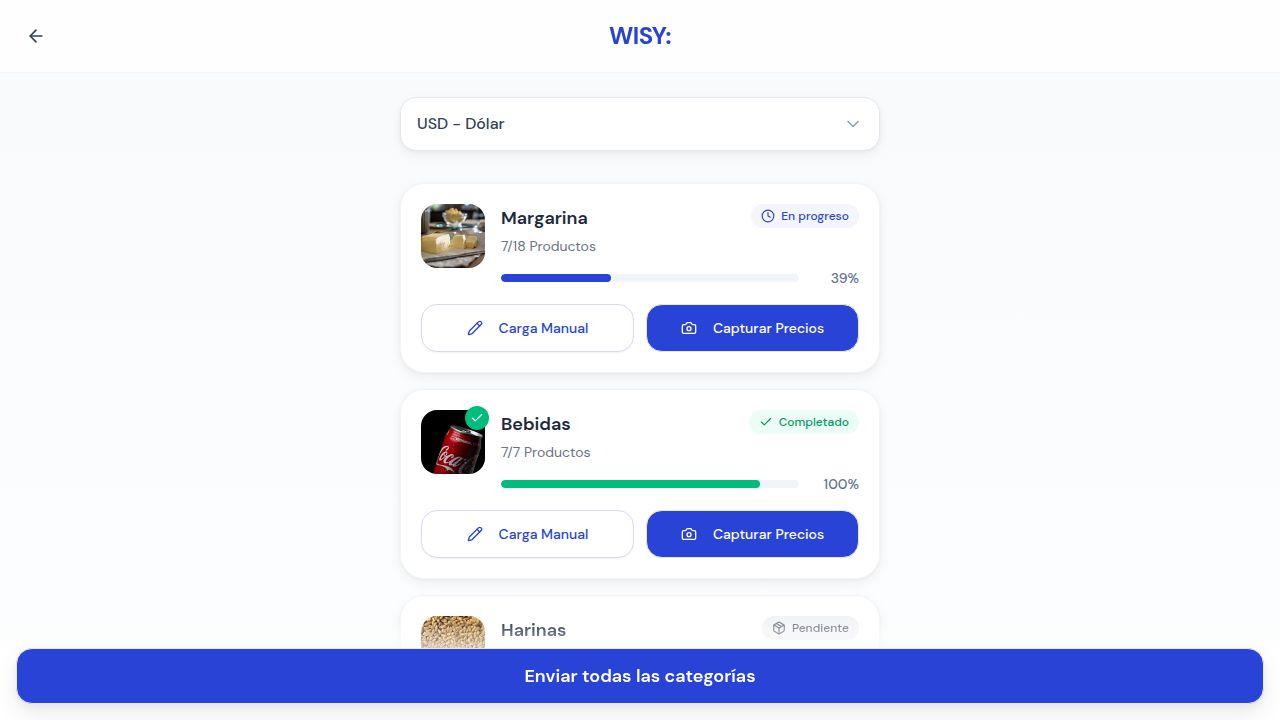
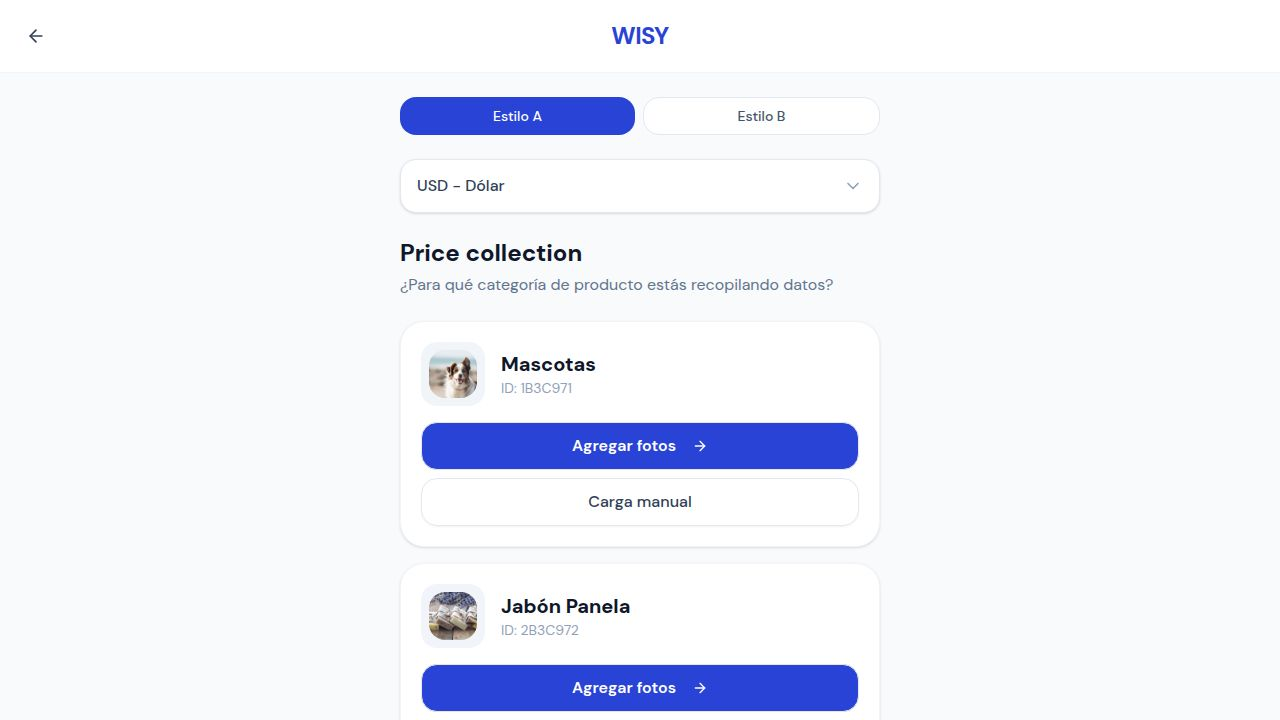
Update categories page to remove status badges and add style options
Removed pending and in-progress status badges from categories. Added two style versions for the home page, with a toggle to switch between card and list views. Updated category IDs and imports.

Replit-Commit-Author: Agent
Replit-Commit-Session-Id: e8e32d1c-b162-4c5d-9f42-174eec901f53
Replit-Commit-Checkpoint-Type: full_checkpoint
Replit-Commit-Event-Id: 7fba9937-7e1d-4efc-a0ea-801f7d893180
Replit-Commit-Screenshot-Url: https://storage.googleapis.com/screenshot-production-us-central1/953767e5-1174-45a6-99b9-bfce9b04edd2/e8e32d1c-b162-4c5d-9f42-174eec901f53/xpiLAi2
Replit-Helium-Checkpoint-Created: true

diff --git a/client/src/pages/categories.tsx b/client/src/pages/categories.tsx
@@ -1,43 +1,30 @@
 import { useState } from "react";
 import { useLocation } from "wouter";
 import { motion, AnimatePresence } from "framer-motion";
-import { ArrowLeft, ChevronDown, Pencil, Camera, Check, Clock, Package } from "lucide-react";
+import { ArrowLeft, ChevronDown, ArrowRight } from "lucide-react";
 import { Button } from "@/components/ui/button";
-import { Progress } from "@/components/ui/progress";
 
 interface Category {
   id: string;
   name: string;
   image: string;
-  completed: number;
-  total: number;
-  status: "completed" | "in-progress" | "pending";
 }
 
 const categories: Category[] = [
   {
-    id: "1",
+    id: "1B3C971",
     name: "Mascotas",
     image: "https://images.unsplash.com/photo-1587300003388-59208cc962cb?w=120&h=120&fit=crop",
-    completed: 7,
-    total: 20,
-    status: "in-progress",
   },
   {
-    id: "2",
+    id: "2B3C972",
     name: "Jabón Panela",
     image: "https://images.unsplash.com/photo-1600857544200-b2f666a9a2ec?w=120&h=120&fit=crop",
-    completed: 0,
-    total: 8,
-    status: "pending",
   },
   {
-    id: "3",
+    id: "3B3C973",
     name: "Cerveza",
     image: "https://images.unsplash.com/photo-1535958636474-b021ee887b13?w=120&h=120&fit=crop",
-    completed: 12,
-    total: 12,
-    status: "completed",
   },
 ];
 
@@ -47,39 +34,11 @@ export default function CategoriesPage() {
   const [, navigate] = useLocation();
   const [selectedCurrency, setSelectedCurrency] = useState(currencies[0]);
   const [currencyOpen, setCurrencyOpen] = useState(false);
-
-  const getStatusConfig = (status: Category["status"]) => {
-    switch (status) {
-      case "completed":
-        return {
-          label: "Completado",
-          color: "text-emerald-600",
-          bgColor: "bg-emerald-50",
-          icon: Check,
-          progressColor: "bg-emerald-500",
-        };
-      case "in-progress":
-        return {
-          label: "En progreso",
-          color: "text-primary",
-          bgColor: "bg-primary/5",
-          icon: Clock,
-          progressColor: "bg-primary",
-        };
-      case "pending":
-        return {
-          label: "Pendiente",
-          color: "text-muted-foreground",
-          bgColor: "bg-muted",
-          icon: Package,
-          progressColor: "bg-gray-300",
-        };
-    }
-  };
+  const [styleVersion, setStyleVersion] = useState<"A" | "B">("A");
 
   return (
-    <div className="min-h-screen bg-gradient-to-b from-slate-50 to-white">
-      <header className="sticky top-0 z-50 bg-white/80 backdrop-blur-xl border-b border-slate-100">
+    <div className="min-h-screen bg-slate-50">
+      <header className="sticky top-0 z-50 bg-white border-b border-slate-100">
         <div className="flex items-center justify-between px-4 py-4">
           <button
             data-testid="button-back"
@@ -87,17 +46,40 @@ export default function CategoriesPage() {
           >
             <ArrowLeft className="w-5 h-5 text-slate-700" />
           </button>
-          <h1 className="text-2xl font-bold tracking-tight text-primary">WISY:</h1>
+          <h1 className="text-2xl font-bold tracking-tight text-primary">WISY</h1>
           <div className="w-10" />
         </div>
       </header>
 
       <main className="px-4 py-6 pb-32 max-w-lg mx-auto">
-        <div className="relative mb-8">
+        <div className="flex gap-2 mb-6">
+          <button
+            onClick={() => setStyleVersion("A")}
+            className={`flex-1 py-2 px-4 rounded-xl text-sm font-medium transition-colors ${
+              styleVersion === "A" 
+                ? "bg-primary text-white" 
+                : "bg-white border border-slate-200 text-slate-600"
+            }`}
+          >
+            Estilo A
+          </button>
+          <button
+            onClick={() => setStyleVersion("B")}
+            className={`flex-1 py-2 px-4 rounded-xl text-sm font-medium transition-colors ${
+              styleVersion === "B" 
+                ? "bg-primary text-white" 
+                : "bg-white border border-slate-200 text-slate-600"
+            }`}
+          >
+            Estilo B
+          </button>
+        </div>
+
+        <div className="relative mb-6">
           <button
             data-testid="button-currency-selector"
             onClick={() => setCurrencyOpen(!currencyOpen)}
-            className="w-full flex items-center justify-between px-4 py-3.5 bg-white rounded-2xl border border-slate-200 card-shadow transition-all hover:border-primary/30"
+            className="w-full flex items-center justify-between px-4 py-3.5 bg-white rounded-2xl border border-slate-200 shadow-sm transition-all hover:border-primary/30"
           >
             <span className="font-medium text-slate-700">{selectedCurrency}</span>
             <ChevronDown className={`w-5 h-5 text-slate-400 transition-transform ${currencyOpen ? "rotate-180" : ""}`} />
@@ -109,7 +91,7 @@ export default function CategoriesPage() {
                 initial={{ opacity: 0, y: -8 }}
                 animate={{ opacity: 1, y: 0 }}
                 exit={{ opacity: 0, y: -8 }}
-                className="absolute top-full left-0 right-0 mt-2 bg-white rounded-2xl border border-slate-200 card-shadow-lg overflow-hidden z-10"
+                className="absolute top-full left-0 right-0 mt-2 bg-white rounded-2xl border border-slate-200 shadow-lg overflow-hidden z-10"
               >
                 {currencies.map((currency) => (
                   <button
@@ -131,98 +113,94 @@ export default function CategoriesPage() {
           </AnimatePresence>
         </div>
 
-        <div className="space-y-4">
-          {categories.map((category, index) => {
-            const statusConfig = getStatusConfig(category.status);
-            const progress = (category.completed / category.total) * 100;
-            const StatusIcon = statusConfig.icon;
+        {styleVersion === "A" ? (
+          <>
+            <div className="mb-6">
+              <h2 className="text-2xl font-bold text-slate-900 mb-1">Price collection</h2>
+              <p className="text-slate-500">¿Para qué categoría de producto estás recopilando datos?</p>
+            </div>
+            
+            <div className="space-y-4">
+              {categories.map((category, index) => (
+                <motion.div
+                  key={category.id}
+                  initial={{ opacity: 0, y: 20 }}
+                  animate={{ opacity: 1, y: 0 }}
+                  transition={{ delay: index * 0.1 }}
+                  data-testid={`card-category-${category.id}`}
+                  className="bg-white rounded-3xl p-5 shadow-sm border border-slate-100"
+                >
+                  <div className="flex items-center gap-4 mb-4">
+                    <div className="w-16 h-16 rounded-2xl bg-slate-100 flex items-center justify-center overflow-hidden">
+                      <img
+                        src={category.image}
+                        alt={category.name}
+                        className="w-12 h-12 object-cover rounded-xl"
+                      />
+                    </div>
+                    
+                    <div>
+                      <h3 className="text-xl font-bold text-slate-900">{category.name}</h3>
+                      <p className="text-sm text-slate-400">ID: {category.id}</p>
+                    </div>
+                  </div>
 
-            return (
-              <motion.div
-                key={category.id}
-                initial={{ opacity: 0, y: 20 }}
-                animate={{ opacity: 1, y: 0 }}
-                transition={{ delay: index * 0.1 }}
-                data-testid={`card-category-${category.id}`}
-                className="bg-white rounded-3xl p-5 card-shadow border border-slate-100 hover:border-primary/20 transition-all"
-              >
-                <div className="flex gap-4 mb-4">
-                  <div className="relative">
+                  <div className="space-y-2">
+                    <Button
+                      data-testid={`button-capture-${category.id}`}
+                      onClick={() => navigate("/camera")}
+                      className="w-full h-12 rounded-2xl bg-primary hover:bg-primary/90 font-semibold text-base"
+                    >
+                      Agregar fotos
+                      <ArrowRight className="w-5 h-5 ml-2" />
+                    </Button>
+                    <Button
+                      variant="outline"
+                      data-testid={`button-manual-${category.id}`}
+                      className="w-full h-12 rounded-2xl border-slate-200 text-slate-700 hover:bg-slate-50 font-medium text-base"
+                    >
+                      Carga manual
+                    </Button>
+                  </div>
+                </motion.div>
+              ))}
+            </div>
+          </>
+        ) : (
+          <>
+            <div className="mb-6">
+              <h2 className="text-2xl font-bold text-slate-900 mb-1">Categorías</h2>
+              <p className="text-slate-500">Selecciona una categoría para continuar</p>
+            </div>
+            
+            <div className="bg-white rounded-3xl shadow-sm border border-slate-100 divide-y divide-slate-100">
+              {categories.map((category, index) => (
+                <motion.button
+                  key={category.id}
+                  initial={{ opacity: 0, x: -20 }}
+                  animate={{ opacity: 1, x: 0 }}
+                  transition={{ delay: index * 0.1 }}
+                  data-testid={`card-category-${category.id}`}
+                  onClick={() => navigate("/camera")}
+                  className="w-full flex items-center gap-5 p-5 hover:bg-slate-50 transition-colors first:rounded-t-3xl last:rounded-b-3xl"
+                >
+                  <div className="w-20 h-20 rounded-full bg-slate-100 flex items-center justify-center overflow-hidden flex-shrink-0">
                     <img
                       src={category.image}
                       alt={category.name}
-                      className="w-16 h-16 rounded-2xl object-cover"
+                      className="w-14 h-14 object-cover rounded-lg"
                     />
-                    {category.status === "completed" && (
-                      <div className="absolute -top-1 -right-1 w-6 h-6 bg-emerald-500 rounded-full flex items-center justify-center">
-                        <Check className="w-3.5 h-3.5 text-white" />
-                      </div>
-                    )}
                   </div>
                   
-                  <div className="flex-1">
-                    <div className="flex items-start justify-between mb-1">
-                      <h3 className="text-lg font-semibold text-slate-800">{category.name}</h3>
-                      <div className={`flex items-center gap-1.5 px-2.5 py-1 rounded-full ${statusConfig.bgColor}`}>
-                        <StatusIcon className={`w-3.5 h-3.5 ${statusConfig.color}`} />
-                        <span className={`text-xs font-medium ${statusConfig.color}`}>
-                          {statusConfig.label}
-                        </span>
-                      </div>
-                    </div>
-                    
-                    <p className="text-sm text-muted-foreground mb-3">
-                      {category.completed}/{category.total} Productos
-                    </p>
-                    
-                    <div className="flex items-center gap-3">
-                      <div className="flex-1 h-2 bg-slate-100 rounded-full overflow-hidden">
-                        <motion.div
-                          initial={{ width: 0 }}
-                          animate={{ width: `${progress}%` }}
-                          transition={{ duration: 0.8, delay: index * 0.1 }}
-                          className={`h-full rounded-full ${statusConfig.progressColor}`}
-                        />
-                      </div>
-                      <span className="text-sm font-medium text-slate-500 min-w-[3rem] text-right">
-                        {Math.round(progress)}%
-                      </span>
-                    </div>
+                  <div className="text-left">
+                    <h3 className="text-lg font-semibold text-slate-900">{category.name}</h3>
                   </div>
-                </div>
-
-                <div className="flex gap-3">
-                  <Button
-                    variant="outline"
-                    data-testid={`button-manual-${category.id}`}
-                    className="flex-1 h-12 rounded-xl border-primary/20 text-primary hover:bg-primary/5 hover:border-primary/40 font-medium"
-                  >
-                    <Pencil className="w-4 h-4 mr-2" />
-                    Carga Manual
-                  </Button>
-                  <Button
-                    data-testid={`button-capture-${category.id}`}
-                    onClick={() => navigate("/camera")}
-                    className="flex-1 h-12 rounded-xl bg-primary hover:bg-primary/90 font-medium"
-                  >
-                    <Camera className="w-4 h-4 mr-2" />
-                    Capturar Precios
-                  </Button>
-                </div>
-              </motion.div>
-            );
-          })}
-        </div>
+                </motion.button>
+              ))}
+            </div>
+          </>
+        )}
       </main>
-
-      <div className="fixed bottom-0 left-0 right-0 p-4 bg-gradient-to-t from-white via-white to-transparent pt-8">
-        <Button
-          data-testid="button-submit-all"
-          className="w-full h-14 rounded-2xl bg-primary hover:bg-primary/90 text-lg font-semibold card-shadow-lg"
-        >
-          Enviar todas las categorías
-        </Button>
-      </div>
     </div>
   );
 }
